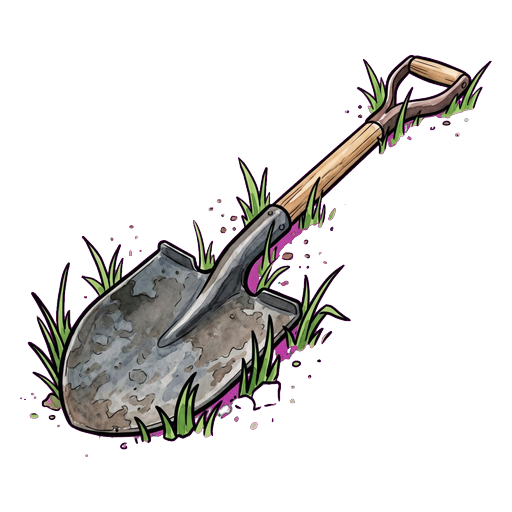
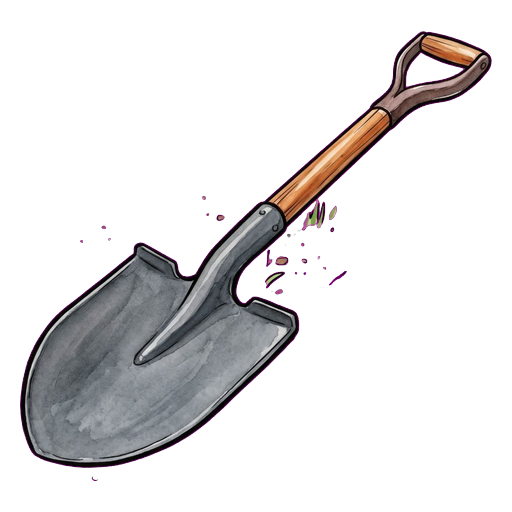
Decor: expand Tools category - add Trowel, Watering Can, Garden Fork, Rake, Hose, Garden Hoe; replace Shovel with new art (7 images)

Changed region(s): [[0.0312, 0.0625, 0.9688, 0.9375], [0.1562, 0.4688, 0.1875, 0.5]]

diff --git a/app/src/components/GardenEditor.jsx b/app/src/components/GardenEditor.jsx
@@ -489,9 +489,15 @@ export default function GardenEditor() {
     'decor-rock-white':       { key: 'decor_rock-white_L_CA-US-FR-GB-AU',   label: 'Rocks', family: 'Decor', size: 'XS', decorGroup: 'rocks', src: '/stickers/decor_rock-white_L_CA-US-FR-GB-AU.png'   },
     'decor-rock-brown':       { key: 'decor_rock-brown_L_CA-US-FR-GB-AU',   label: 'Rocks', family: 'Decor', size: 'XS', decorGroup: 'rocks', src: '/stickers/decor_rock-brown_L_CA-US-FR-GB-AU.png'   },
     'decor-rock-flat':        { key: 'decor_rock-flat_L_CA-US-FR-GB-AU',    label: 'Rocks', family: 'Decor', size: 'XS', decorGroup: 'rocks', src: '/stickers/decor_rock-flat_L_CA-US-FR-GB-AU.png'    },
-    'decor-wheelbarrow-default': { key: 'decor_wheelbarrow-default_L_CA-US-FR-GB-AU', label: 'Tools', family: 'Decor', size: 'L', decorGroup: 'wheelbarrows', src: '/stickers/decor_wheelbarrow-default_L_CA-US-FR-GB-AU.png' },
-    'decor-wheelbarrow-front':   { key: 'decor_wheelbarrow-front_L_CA-US-FR-GB-AU',   label: 'Tools', family: 'Decor', size: 'L', decorGroup: 'wheelbarrows', src: '/stickers/decor_wheelbarrow-front_L_CA-US-FR-GB-AU.png' },
-    'decor-tool-shovel':         { key: 'decor_tool-shovel_M_CA-US-FR-GB-AU',         label: 'Tools', family: 'Decor', size: 'M', decorGroup: 'wheelbarrows', src: '/stickers/decor_tool-shovel_M_CA-US-FR-GB-AU.png' },
+    'decor-wheelbarrow-default': { key: 'decor_wheelbarrow-default_L_CA-US-FR-GB-AU',  label: 'Tools', family: 'Decor', size: 'L', decorGroup: 'wheelbarrows', src: '/stickers/decor_wheelbarrow-default_L_CA-US-FR-GB-AU.png' },
+    'decor-wheelbarrow-front':   { key: 'decor_wheelbarrow-front_L_CA-US-FR-GB-AU',    label: 'Tools', family: 'Decor', size: 'L', decorGroup: 'wheelbarrows', src: '/stickers/decor_wheelbarrow-front_L_CA-US-FR-GB-AU.png' },
+    'decor-tool-shovel':         { key: 'decor_tool-shovel_M_CA-US-FR-GB-AU',          label: 'Tools', family: 'Decor', size: 'M', decorGroup: 'wheelbarrows', src: '/stickers/decor_tool-shovel_M_CA-US-FR-GB-AU.png' },
+    'decor-tool-trowel':         { key: 'decor_tool-trowel_M_CA-US-FR-GB-AU',          label: 'Tools', family: 'Decor', size: 'M', decorGroup: 'wheelbarrows', src: '/stickers/decor_tool-trowel_M_CA-US-FR-GB-AU.png' },
+    'decor-tool-watering-can':   { key: 'decor_tool-watering-can_M_CA-US-FR-GB-AU',    label: 'Tools', family: 'Decor', size: 'M', decorGroup: 'wheelbarrows', src: '/stickers/decor_tool-watering-can_M_CA-US-FR-GB-AU.png' },
+    'decor-tool-garden-fork':    { key: 'decor_tool-garden-fork_M_CA-US-FR-GB-AU',     label: 'Tools', family: 'Decor', size: 'M', decorGroup: 'wheelbarrows', src: '/stickers/decor_tool-garden-fork_M_CA-US-FR-GB-AU.png' },
+    'decor-tool-rake':           { key: 'decor_tool-rake_M_CA-US-FR-GB-AU',            label: 'Tools', family: 'Decor', size: 'M', decorGroup: 'wheelbarrows', src: '/stickers/decor_tool-rake_M_CA-US-FR-GB-AU.png' },
+    'decor-tool-hose':           { key: 'decor_tool-hose_M_CA-US-FR-GB-AU',            label: 'Tools', family: 'Decor', size: 'M', decorGroup: 'wheelbarrows', src: '/stickers/decor_tool-hose_M_CA-US-FR-GB-AU.png' },
+    'decor-tool-garden-hoe':     { key: 'decor_tool-garden-hoe_M_CA-US-FR-GB-AU',      label: 'Tools', family: 'Decor', size: 'M', decorGroup: 'wheelbarrows', src: '/stickers/decor_tool-garden-hoe_M_CA-US-FR-GB-AU.png' },
     'decor-shed-default': { key: 'decor_shed-default_XXL_CA-US-FR-GB-AU', label: 'Sheds', family: 'Decor', size: 'XXL', decorGroup: 'sheds', src: '/stickers/decor_shed-default_XXL_CA-US-FR-GB-AU.png' },
     'decor-shed-cedar':   { key: 'decor_shed-cedar_XXL_CA-US-FR-GB-AU',   label: 'Sheds', family: 'Decor', size: 'XXL', decorGroup: 'sheds', src: '/stickers/decor_shed-cedar_XXL_CA-US-FR-GB-AU.png' },
     'decor-shed-pine':    { key: 'decor_shed-pine_XXL_CA-US-FR-GB-AU',    label: 'Sheds', family: 'Decor', size: 'XXL', decorGroup: 'sheds', src: '/stickers/decor_shed-pine_XXL_CA-US-FR-GB-AU.png' },

diff --git a/app/src/hooks/usePlantCatalog.js b/app/src/hooks/usePlantCatalog.js
@@ -239,8 +239,14 @@ export const PLANT_CATALOG = [
   { key:'decor_rock-flat_L_CA-US-FR-GB-AU', label:'Stepping Stone II', family:'Decor', src:'/stickers/decor_rock-flat_L_CA-US-FR-GB-AU.png', size:'L' },
 
   { key:'decor_shed-default_XXL_CA-US-FR-GB-AU', label:'Garden Shed', family:'Decor', src:'/stickers/decor_shed-default_XXL_CA-US-FR-GB-AU.png', size:'XXL' },
-  { key:'decor_wheelbarrow-default_L_CA-US-FR-GB-AU', label:'Wheelbarrow', family:'Decor', src:'/stickers/decor_wheelbarrow-default_L_CA-US-FR-GB-AU.png', size:'L' },
-  { key:'decor_tool-shovel_M_CA-US-FR-GB-AU',         label:'Shovel',      family:'Decor', src:'/stickers/decor_tool-shovel_M_CA-US-FR-GB-AU.png',         size:'M' },
+  { key:'decor_wheelbarrow-default_L_CA-US-FR-GB-AU',  label:'Wheelbarrow',   family:'Decor', src:'/stickers/decor_wheelbarrow-default_L_CA-US-FR-GB-AU.png',  size:'L' },
+  { key:'decor_tool-shovel_M_CA-US-FR-GB-AU',           label:'Shovel',        family:'Decor', src:'/stickers/decor_tool-shovel_M_CA-US-FR-GB-AU.png',           size:'M' },
+  { key:'decor_tool-trowel_M_CA-US-FR-GB-AU',           label:'Trowel',        family:'Decor', src:'/stickers/decor_tool-trowel_M_CA-US-FR-GB-AU.png',           size:'M' },
+  { key:'decor_tool-watering-can_M_CA-US-FR-GB-AU',     label:'Watering Can',  family:'Decor', src:'/stickers/decor_tool-watering-can_M_CA-US-FR-GB-AU.png',     size:'M' },
+  { key:'decor_tool-garden-fork_M_CA-US-FR-GB-AU',      label:'Garden Fork',   family:'Decor', src:'/stickers/decor_tool-garden-fork_M_CA-US-FR-GB-AU.png',      size:'M' },
+  { key:'decor_tool-rake_M_CA-US-FR-GB-AU',             label:'Rake',          family:'Decor', src:'/stickers/decor_tool-rake_M_CA-US-FR-GB-AU.png',             size:'M' },
+  { key:'decor_tool-hose_M_CA-US-FR-GB-AU',             label:'Hose',          family:'Decor', src:'/stickers/decor_tool-hose_M_CA-US-FR-GB-AU.png',             size:'M' },
+  { key:'decor_tool-garden-hoe_M_CA-US-FR-GB-AU',       label:'Garden Hoe',    family:'Decor', src:'/stickers/decor_tool-garden-hoe_M_CA-US-FR-GB-AU.png',       size:'M' },
   { key:'decor_bench-wood_L_CA-US-FR-GB-AU',  label:'Garden Bench', family:'Decor', src:'/stickers/decor_bench-wood_L_CA-US-FR-GB-AU.png',  size:'L' },
   { key:'decor_beehive-default_L_CA-US-FR-GB-AU', label:'Beehive', family:'Decor', src:'/stickers/decor_beehive-default_L_CA-US-FR-GB-AU.png' },
   { key:'decor_light-solar_M_CA-US-FR-GB-AU', label:'Garden Lights', family:'Decor', src:'/stickers/decor_light-solar_M_CA-US-FR-GB-AU.png', size:'M' },

diff --git a/app/src/hooks/useGardenState.js b/app/src/hooks/useGardenState.js
@@ -225,6 +225,12 @@ export const DECOR_VARIANTS = {
     { label: 'Wheelbarrow (Side)',  subtitle: 'Wheelbarrow (Side)',  size: 'L', colour: '#8B4040', src: '/stickers/decor_wheelbarrow-default_L_CA-US-FR-GB-AU.png' },
     { label: 'Wheelbarrow (Front)', subtitle: 'Wheelbarrow (Front)', size: 'L', colour: '#7A3A3A', src: '/stickers/decor_wheelbarrow-front_L_CA-US-FR-GB-AU.png' },
     { label: 'Shovel',             subtitle: 'Garden Shovel',        size: 'M', colour: '#6A6A70', src: '/stickers/decor_tool-shovel_M_CA-US-FR-GB-AU.png' },
+    { label: 'Trowel',             subtitle: 'Garden Trowel',        size: 'M', colour: '#7A7A7A', src: '/stickers/decor_tool-trowel_M_CA-US-FR-GB-AU.png' },
+    { label: 'Watering Can',       subtitle: 'Watering Can',         size: 'M', colour: '#A0A0A8', src: '/stickers/decor_tool-watering-can_M_CA-US-FR-GB-AU.png' },
+    { label: 'Garden Fork',        subtitle: 'Garden Fork',          size: 'M', colour: '#6A6A70', src: '/stickers/decor_tool-garden-fork_M_CA-US-FR-GB-AU.png' },
+    { label: 'Rake',               subtitle: 'Garden Rake',          size: 'M', colour: '#4A7A4A', src: '/stickers/decor_tool-rake_M_CA-US-FR-GB-AU.png' },
+    { label: 'Hose',               subtitle: 'Garden Hose',          size: 'M', colour: '#3A8A70', src: '/stickers/decor_tool-hose_M_CA-US-FR-GB-AU.png' },
+    { label: 'Garden Hoe',         subtitle: 'Garden Hoe',           size: 'M', colour: '#6A6A70', src: '/stickers/decor_tool-garden-hoe_M_CA-US-FR-GB-AU.png' },
   ],
   sheds: [
     { label: 'Weathered', subtitle: 'Weathered Wood Shed', size: 'XXL', colour: '#A89880', src: '/stickers/decor_shed-default_XXL_CA-US-FR-GB-AU.png' },

diff --git a/research/DECOR-DATABASE.md b/research/DECOR-DATABASE.md
@@ -72,7 +72,13 @@ _Menu button label: "Tools". decorGroup key: `wheelbarrows`. Sticker filenames u
 |---|---|---|---|---|---|---|
 | Wheelbarrow (Side) | `decor_wheelbarrow-default_L_CA-US-FR-GB-AU` | core | L | done | ✅ live | Default entry for Tools menu. PLANT_VARIANTS key: `wheelbarrows` |
 | Wheelbarrow (Front) | `decor_wheelbarrow-front_L_CA-US-FR-GB-AU` | core | L | done | ✅ live | variant swatch |
-| Shovel | `decor_tool-shovel_M_CA-US-FR-GB-AU` | core | M | none | ✅ live | added 2026-10-20 |
+| Shovel | `decor_tool-shovel_M_CA-US-FR-GB-AU` | core | M | none | ✅ live | replaced 2026-10-21 with new art |
+| Trowel | `decor_tool-trowel_M_CA-US-FR-GB-AU` | core | M | none | ✅ live | added 2026-10-21 |
+| Watering Can | `decor_tool-watering-can_M_CA-US-FR-GB-AU` | core | M | none | ✅ live | added 2026-10-21 |
+| Garden Fork | `decor_tool-garden-fork_M_CA-US-FR-GB-AU` | core | M | none | ✅ live | added 2026-10-21 |
+| Rake | `decor_tool-rake_M_CA-US-FR-GB-AU` | core | M | none | ✅ live | added 2026-10-21 |
+| Hose | `decor_tool-hose_M_CA-US-FR-GB-AU` | core | M | none | ✅ live | added 2026-10-21 |
+| Garden Hoe | `decor_tool-garden-hoe_M_CA-US-FR-GB-AU` | core | M | none | ✅ live | added 2026-10-21 |
 
 ---
 
